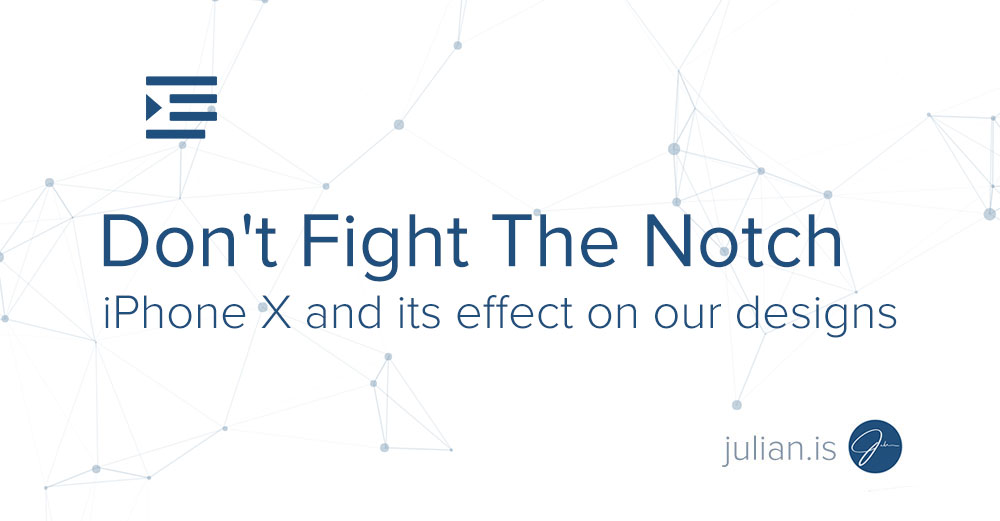
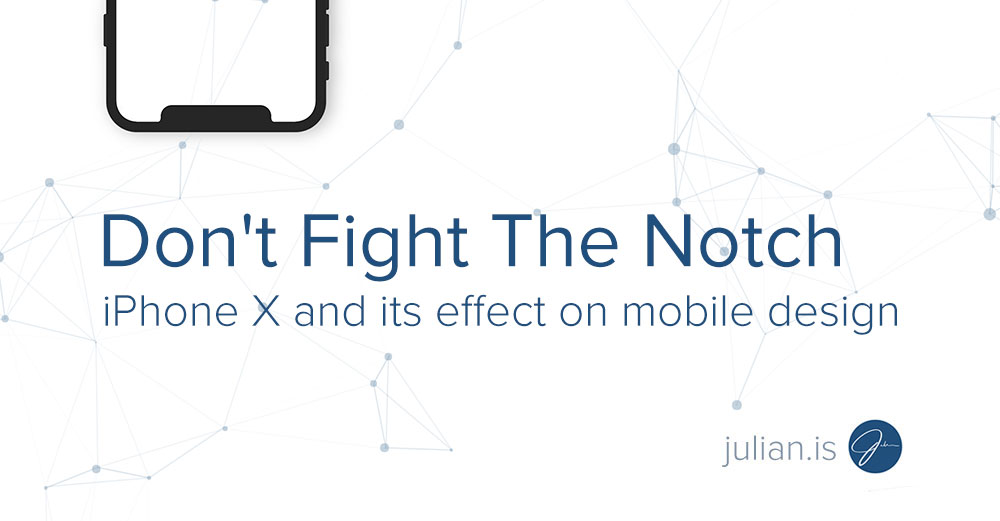
Added related articles on PWA and Simple Baseline articles.

Changed region(s): [[0.093, 0.5528, 0.899, 0.6449], [0.093, 0.0, 0.341, 0.2764]]

diff --git a/site/static/sw.js b/site/static/sw.js
@@ -1,4 +1,4 @@
-var CACHE_NAME = 'site-cache-v2v171';
+var CACHE_NAME = 'site-cache-v2v174';
 var urlsToCache = [
   '/',
   '/style.css',
@@ -58,7 +58,7 @@ self.addEventListener('fetch', function(event) {
 
 self.addEventListener('activate', function(event) {
 
-  var cacheWhitelist = ['site-cache-v2v171'];
+  var cacheWhitelist = ['site-cache-v2v174'];
 
   event.waitUntil(
     caches.keys().then(function(cacheNames) {

diff --git a/site/content/articles/2017-03-20-progressive-web-apps.md b/site/content/articles/2017-03-20-progressive-web-apps.md
@@ -25,6 +25,8 @@ Late last week, Smashing Magazine, one of the largest and most influential onlin
 
 Honestly, I didn’t think much of it. Progressive Web Apps are for the hardcore web application developers creating the next online cloud-based Photoshop (complicated stuff), right? I scrolled on and went about my day.
 
+(Related: [A Simple Baseline for Fast Loading Websites](/article/baseline-for-fast-loading-websites/))
+
 Then, I saw CSS wizard, Harry Roberts, [tweet](https://twitter.com/csswizardry/status/839814781326483456) about making some setting changes in CloudFlare and achieving the same. It might have been a coincidence that I stumbled across two influencers discussing the same topic, but it still caught my eye. So out of curiosity, I installed [Lighthouse](https://developers.google.com/web/tools/lighthouse/), the Chrome plugin that both Smashing Magazine and Harry Roberts had used, and ran my website through it. 
 
 <figure><img src="/assets/pwa-lighthouse-initial-audit.jpg" alt="Initial Lighthouse Audit" class="img-border"></figure>
@@ -316,7 +318,7 @@ It took me about two hours to go from a 50/100 score to a 100/100 score. (Check 
 
 <blockquote><p>It's pretty much required that you're going to be using some form of JS framework or view library, like Angular or React.</p></blockquote>
 
-My site runs on a [static site generator](https://jekyllrb.com/) (just straight up HTML files). It’s made up of simple HTML, CSS and good ol’ jQuery. No component based, data binding, dynamic, complicated JS framework here. 
+My site runs on a [static site generator](/article/static-websites-and-jamstack/#ssgs) (just straight up HTML files). It’s made up of simple HTML, CSS and good ol’ jQuery. No component based, data binding, dynamic, complicated JS framework here. 
 
 If you skipped the beginning of this article, I’ve outlined exactly what the PWA criteria is (and it’s not React or Angular). Scroll back up!
 

diff --git a/site/content/articles/2017-01-15-baseline-for-fast-loading-websites.md b/site/content/articles/2017-01-15-baseline-for-fast-loading-websites.md
@@ -19,6 +19,8 @@ date: "2017-01-15"
 
 Websites have reached a point where the maturity of graphic design has caught up with the state of web development. But what about accessibility? As the web keeps getting prettier to look at, it also keeps getting heavier and slower to load. Page speed is a limitation that influences creativity and impacts accessibility, but unfortunately it is also a behind the scenes act that usually gets overlooked. 
 
+(Related: [Progressive Web Apps — The Next Step in Responsive Web Design](/article/progressive-web-apps/))
+
 Saving images for the web isn’t cutting it anymore; we now have to take into consideration perceived load time, Gzip, CDNs, post-photoshop image optimization, etc, just to make our websites accessible (and to make Google happy, let’s not forget). Seems as though we’re going backwards, but even though browsers and computers keep getting faster and faster, we now have a slew of mobile devices that we need to support (all depending on your target audience).  
 
 

diff --git a/site/content/articles/2017-10-11-dont-fight-the-notch.md b/site/content/articles/2017-10-11-dont-fight-the-notch.md
@@ -1,6 +1,6 @@
 ---
 title: "Don't Fight The Notch"
-description:  Coming to terms with the notch on the iPhone X and its effect on our designs.
+description:  Coming to terms with the notch on the iPhone X and its effect on mobile design.
 tags: [CSS, Mobile,]
 lastmod: 2017-10-17
 date: "2017-10-17"
